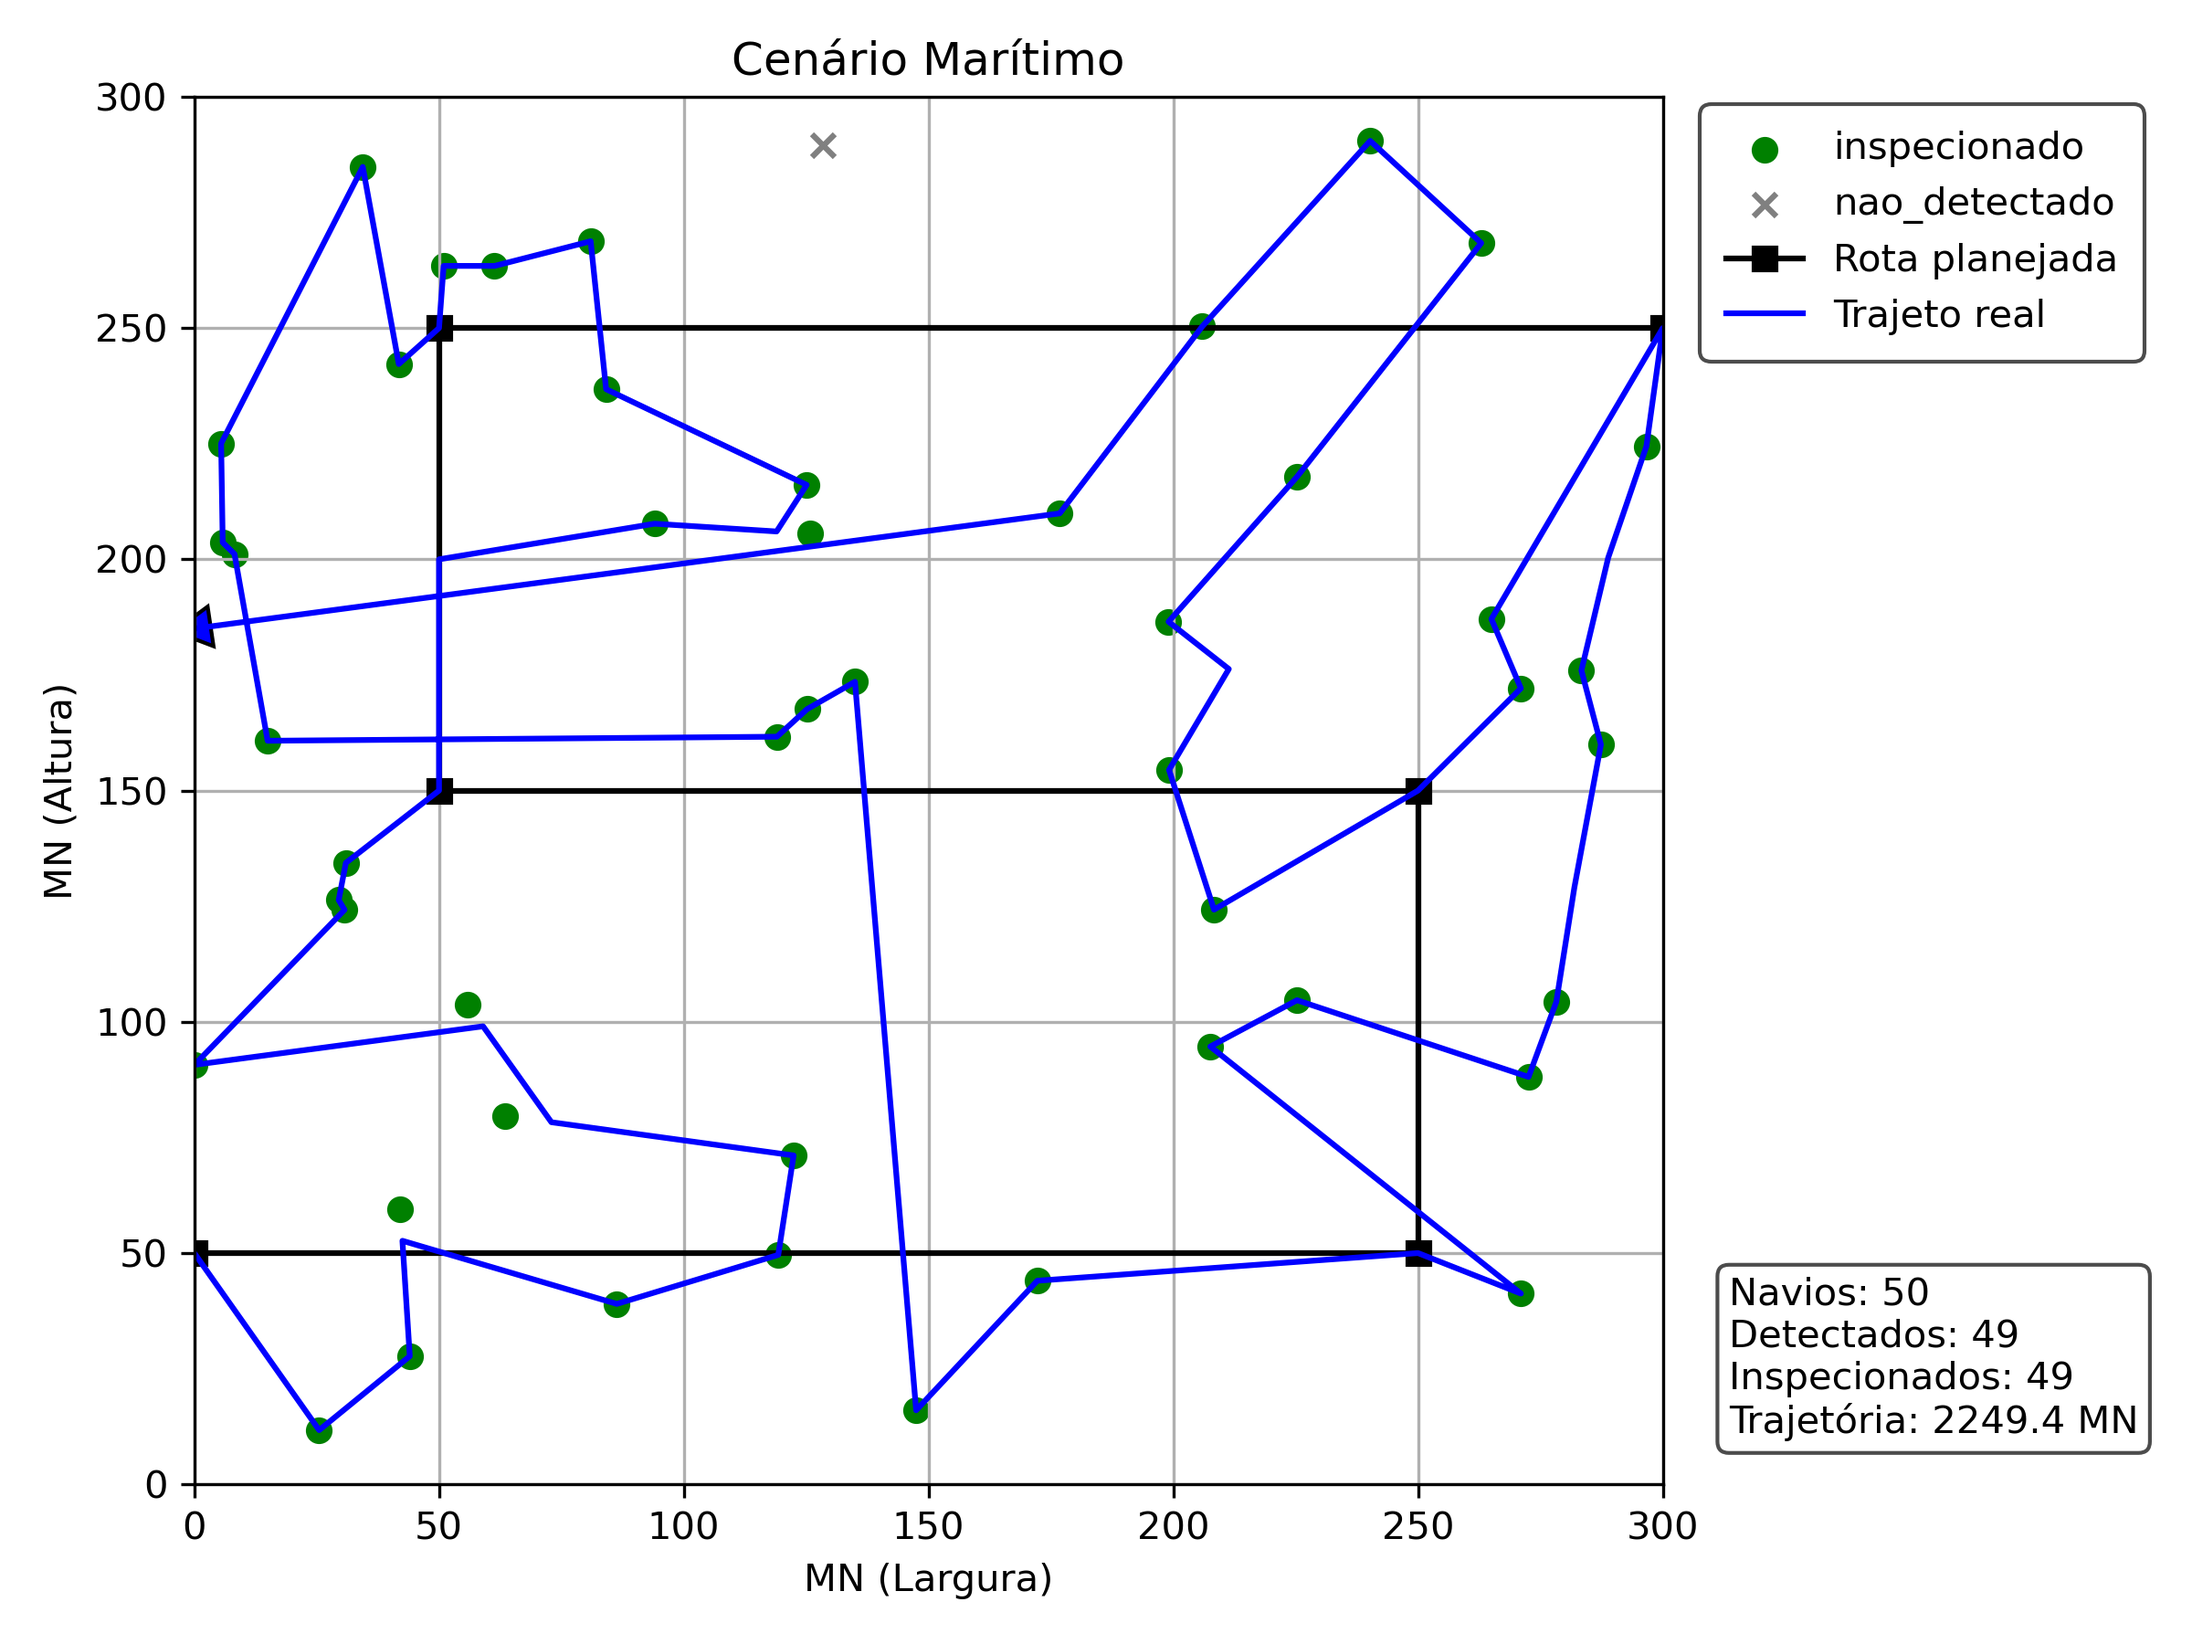
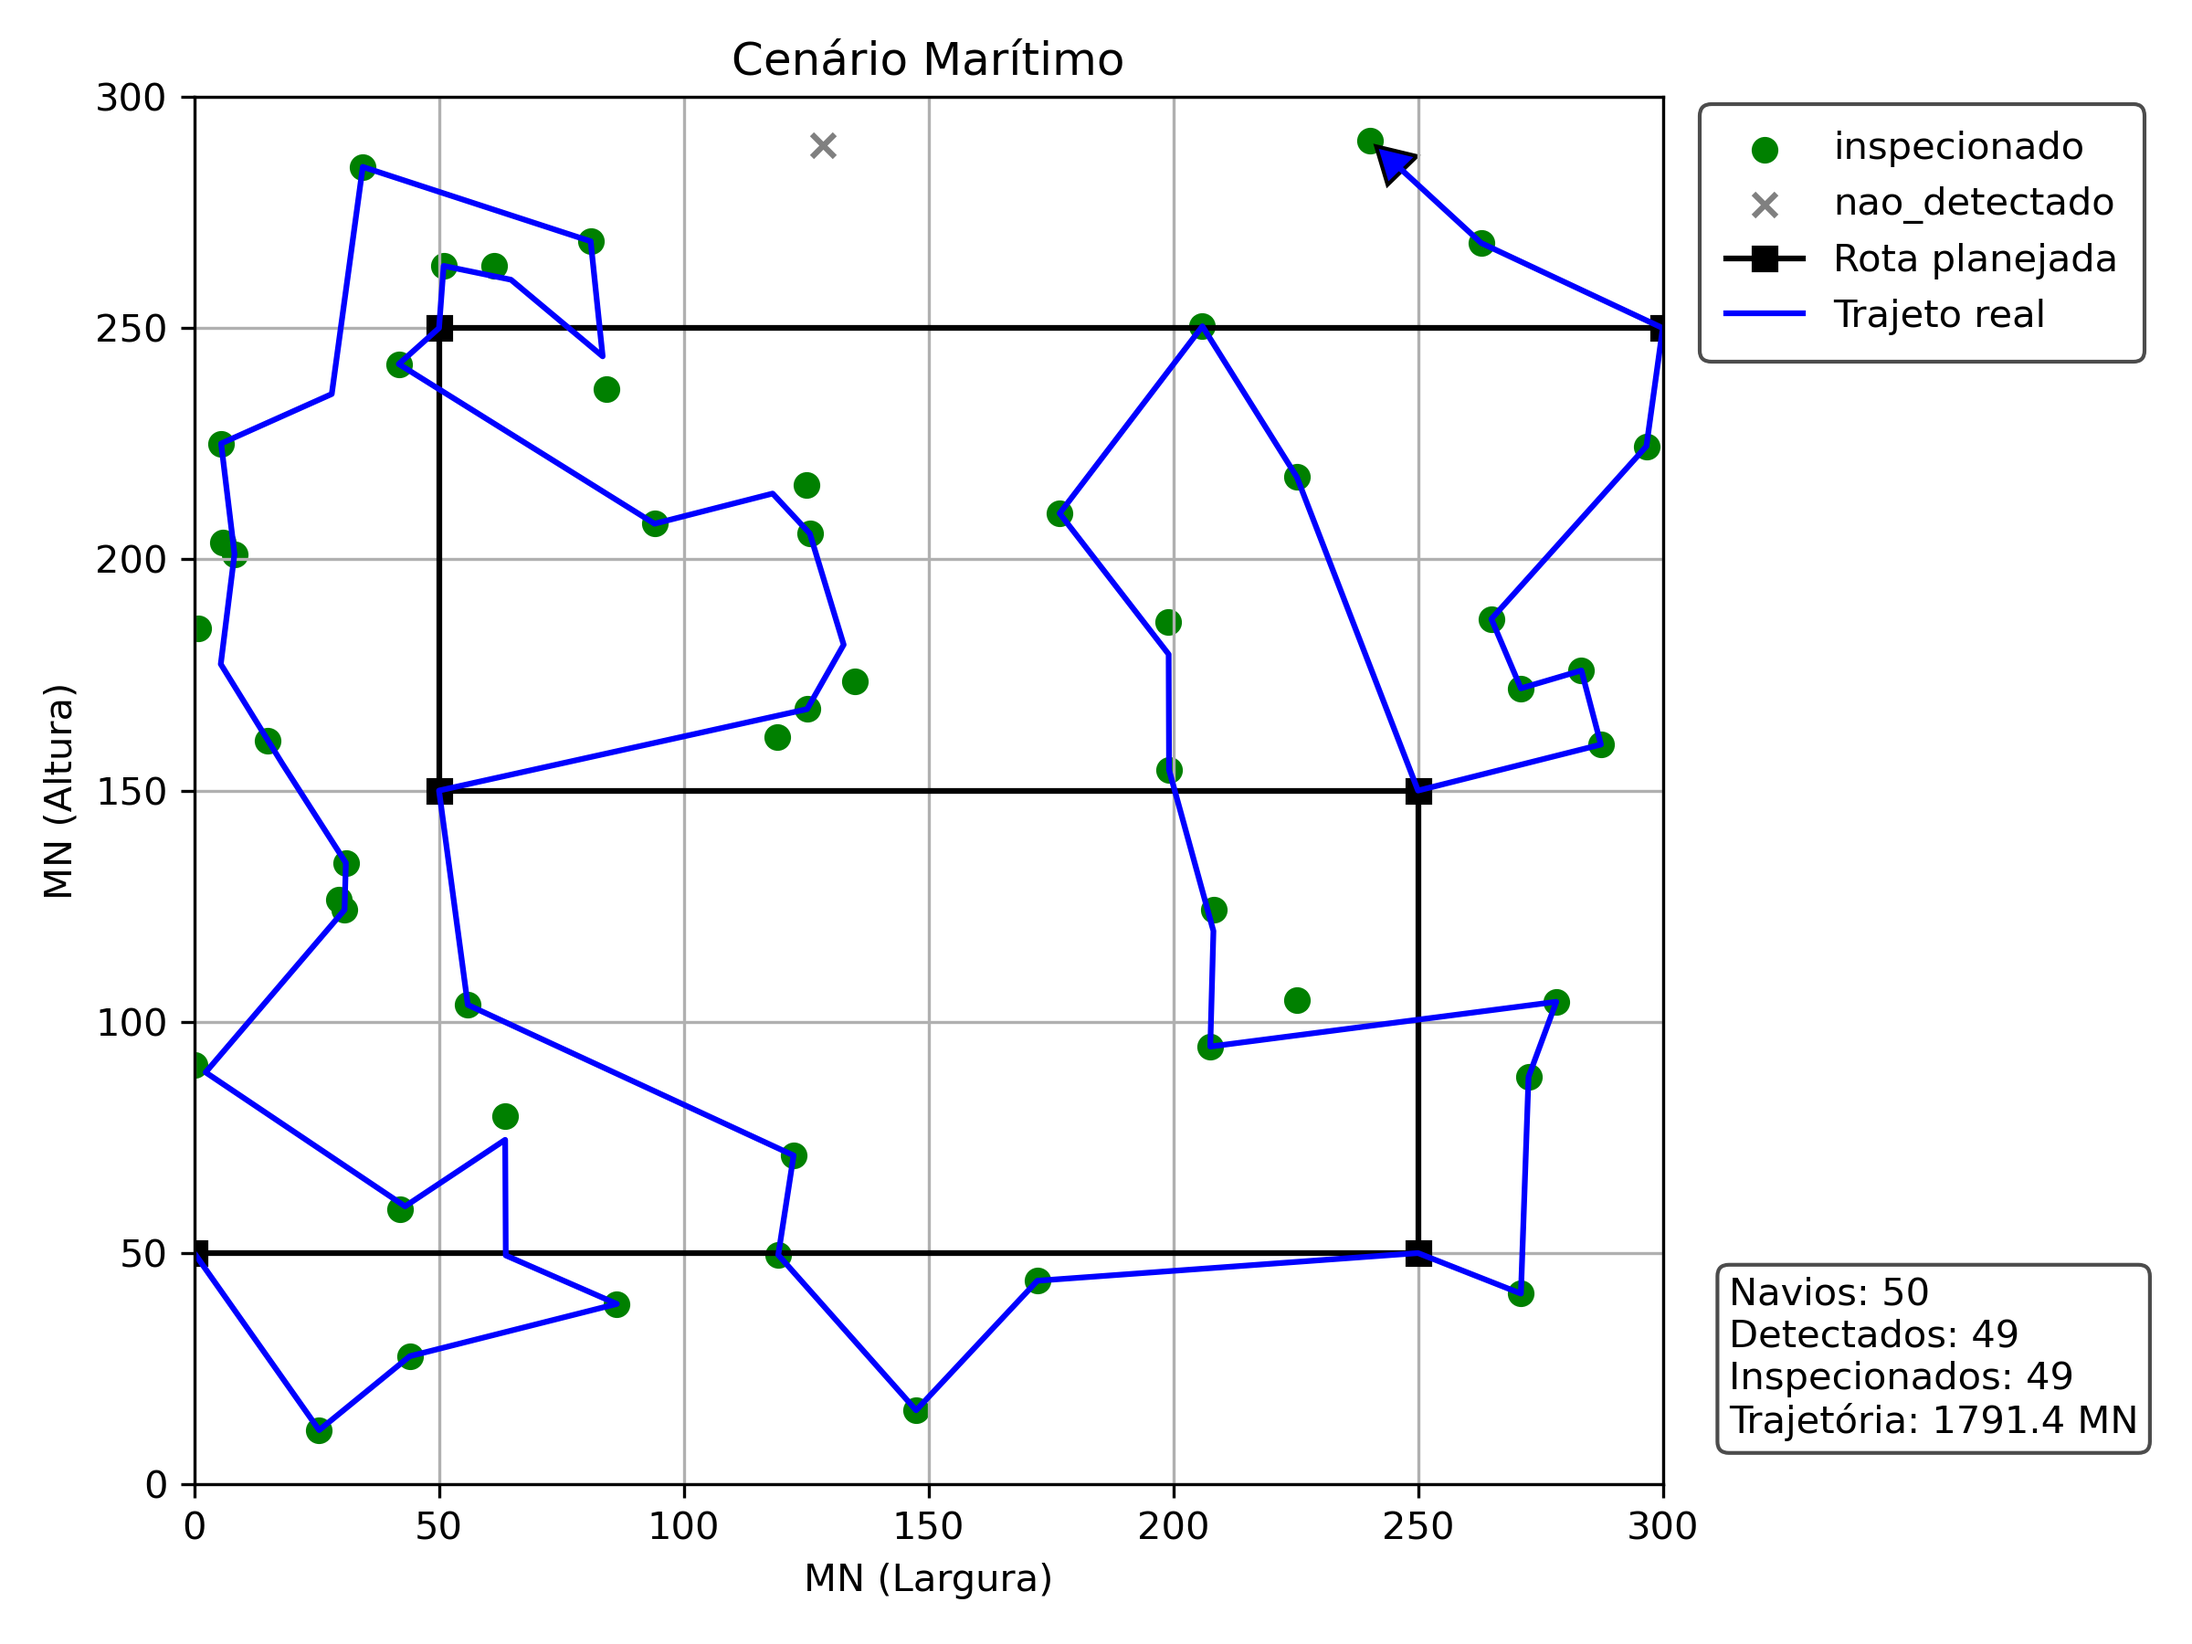
removida restrição de só recalcular a rota após um novo alvo detectado

diff --git a/Projeto/codigo/vant.py b/Projeto/codigo/vant.py
@@ -94,7 +94,7 @@ class VANT:
         # iter_por_T = 100
 
         # Parâmetros do SA_2
-        T = 1.0
+        T = 10.0
         T_min = 1e-4
         beta = 0.9
         iter_por_T = 100
@@ -118,12 +118,13 @@ class VANT:
         self.nodes = melhor_rota
         
     def step(self):
+        # if self.novo_detectado > 0:
         # Atualização de rota conforme política
         if self.politica == "greed":
             self.greed()
-        elif self.politica == "SA" and self.novo_detectado > 1:
+        elif self.politica == "SA":
             self.simulated_annealing()
-            self.novo_detectado = 0
+        # self.novo_detectado = 0
 
         if len(self.nodes) < 1:
             self.continuar_voo = False

diff --git a/Projeto/codigo/main.py b/Projeto/codigo/main.py
@@ -50,7 +50,7 @@ if __name__ == "__main__":
 
     num = 50
     # simulacao_estatica(num_navios=num, politica="passiva", seed=1)
-    # simulacao_estatica(num_navios=num, politica="greed", seed=1)
+    simulacao_estatica(num_navios=num, politica="greed", seed=1)
     simulacao_estatica(num_navios=num, politica="SA", seed=1)
 
     # simulacao_animada(num_navios=50, politica="greed", seed=1)
